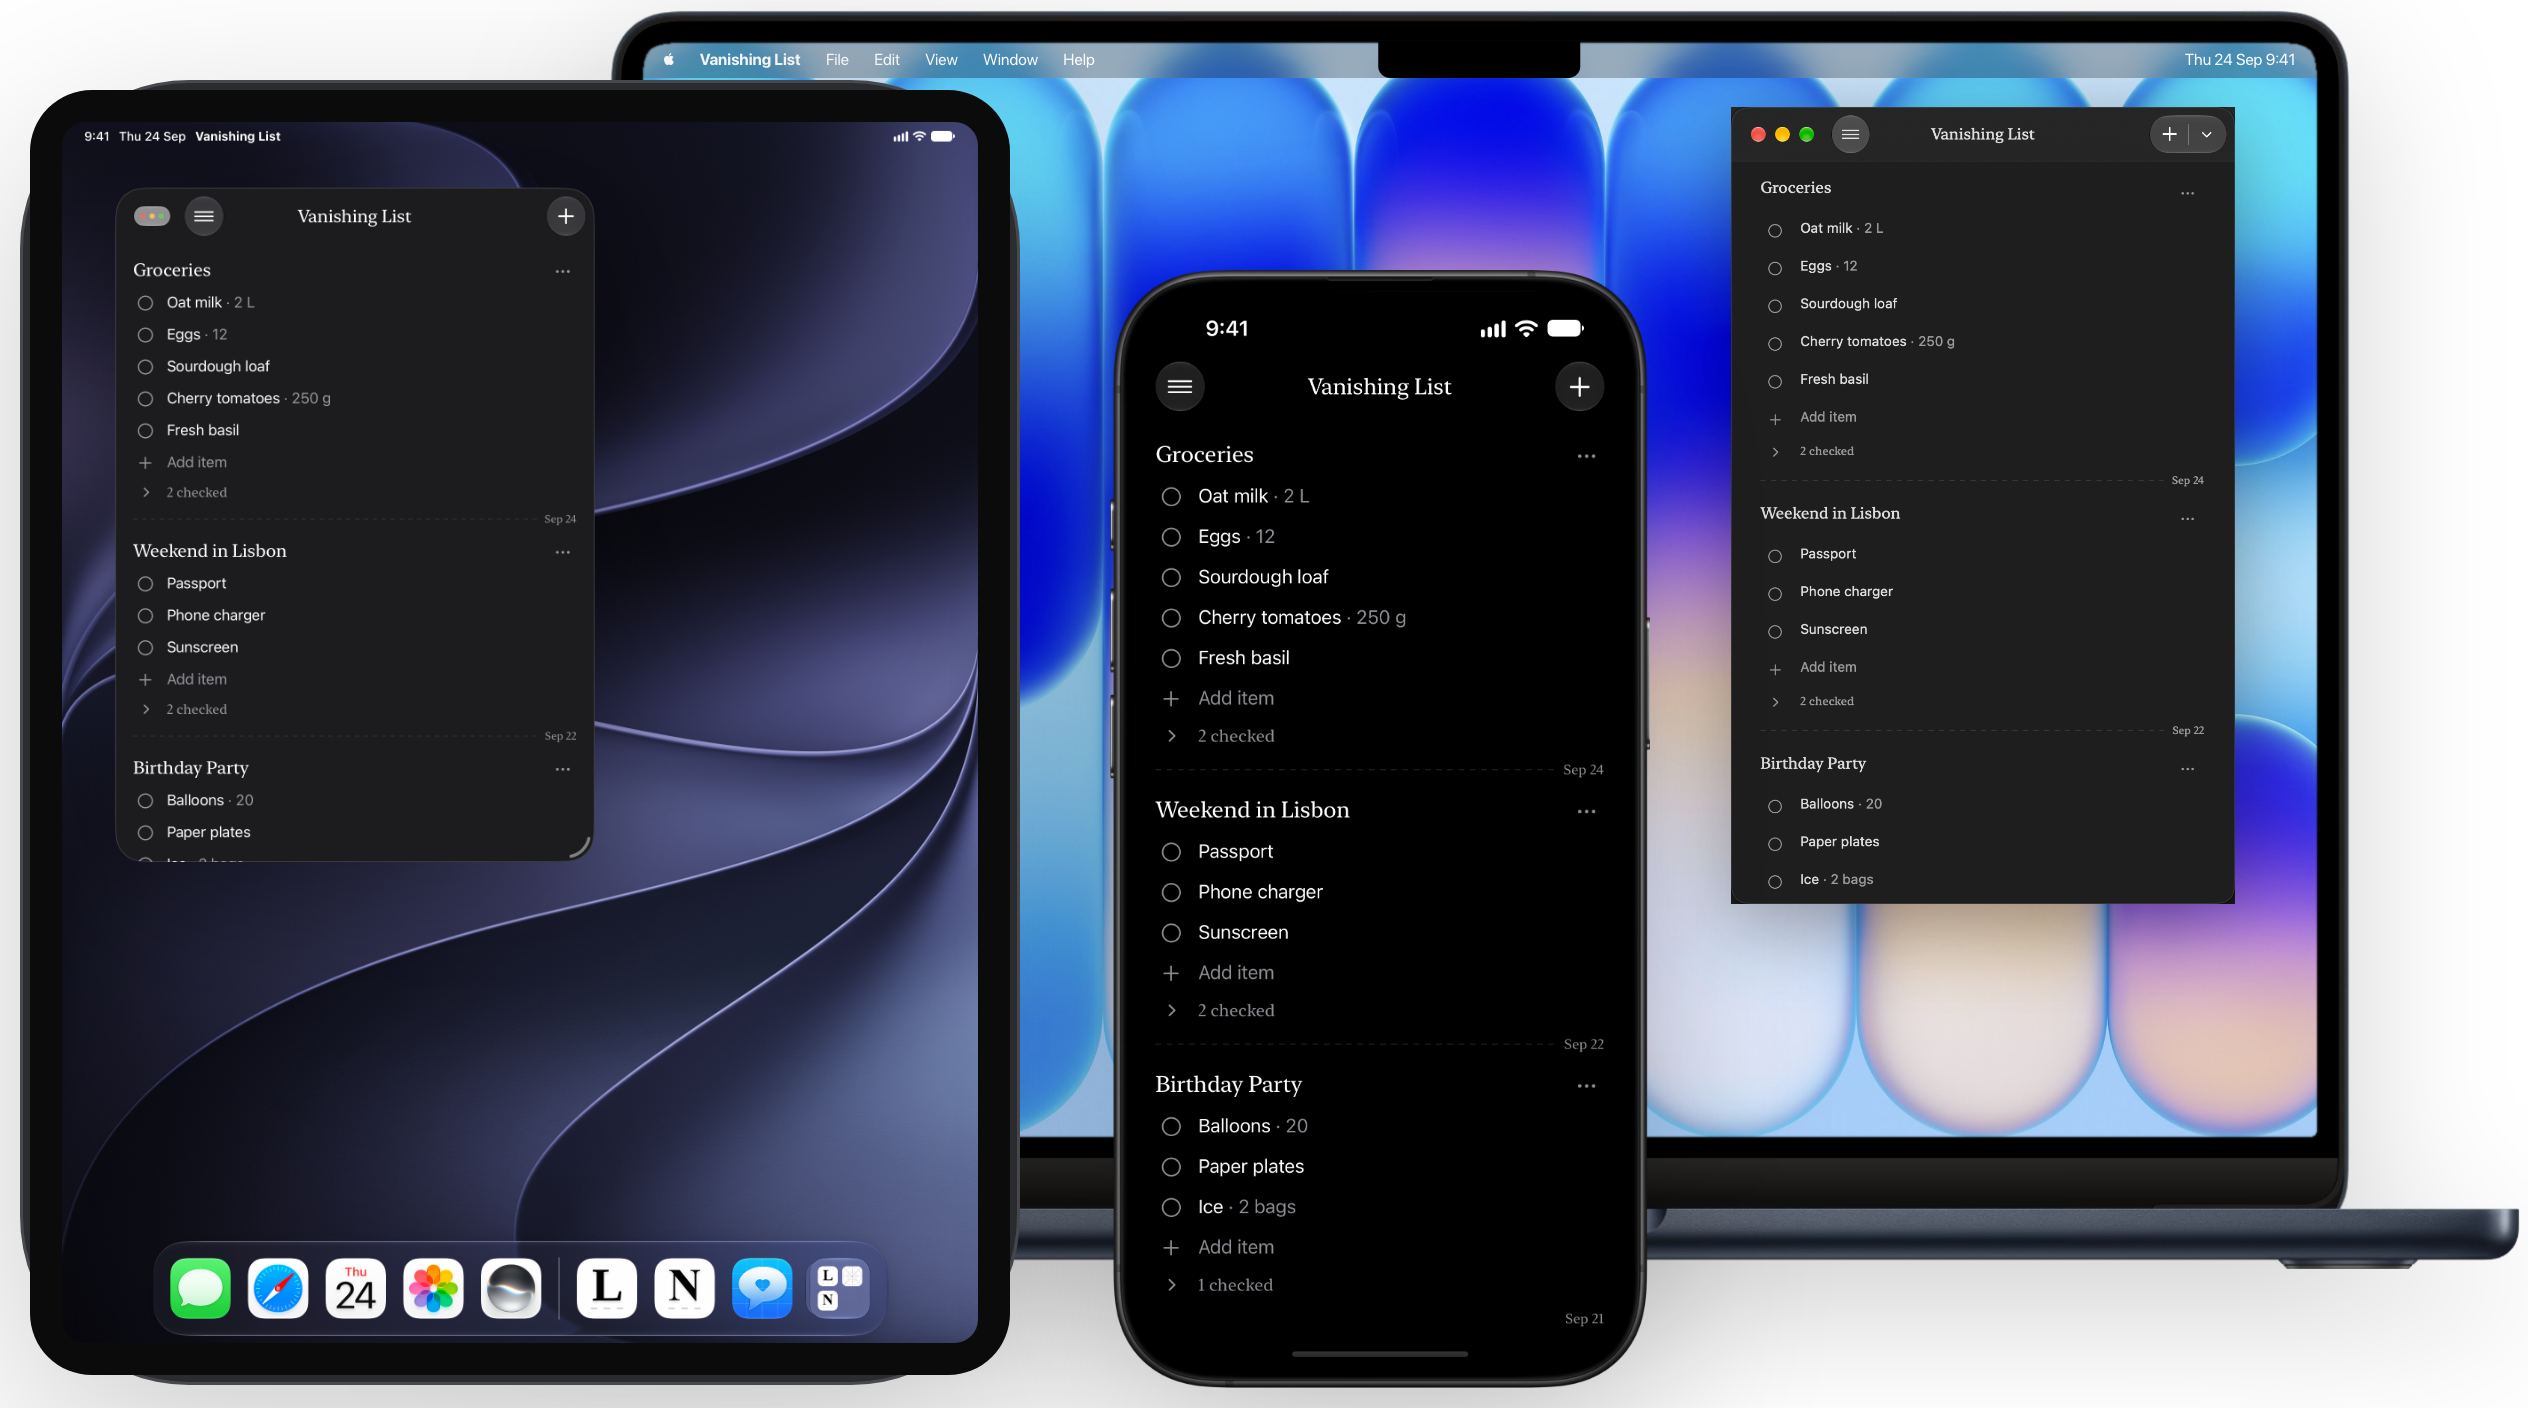
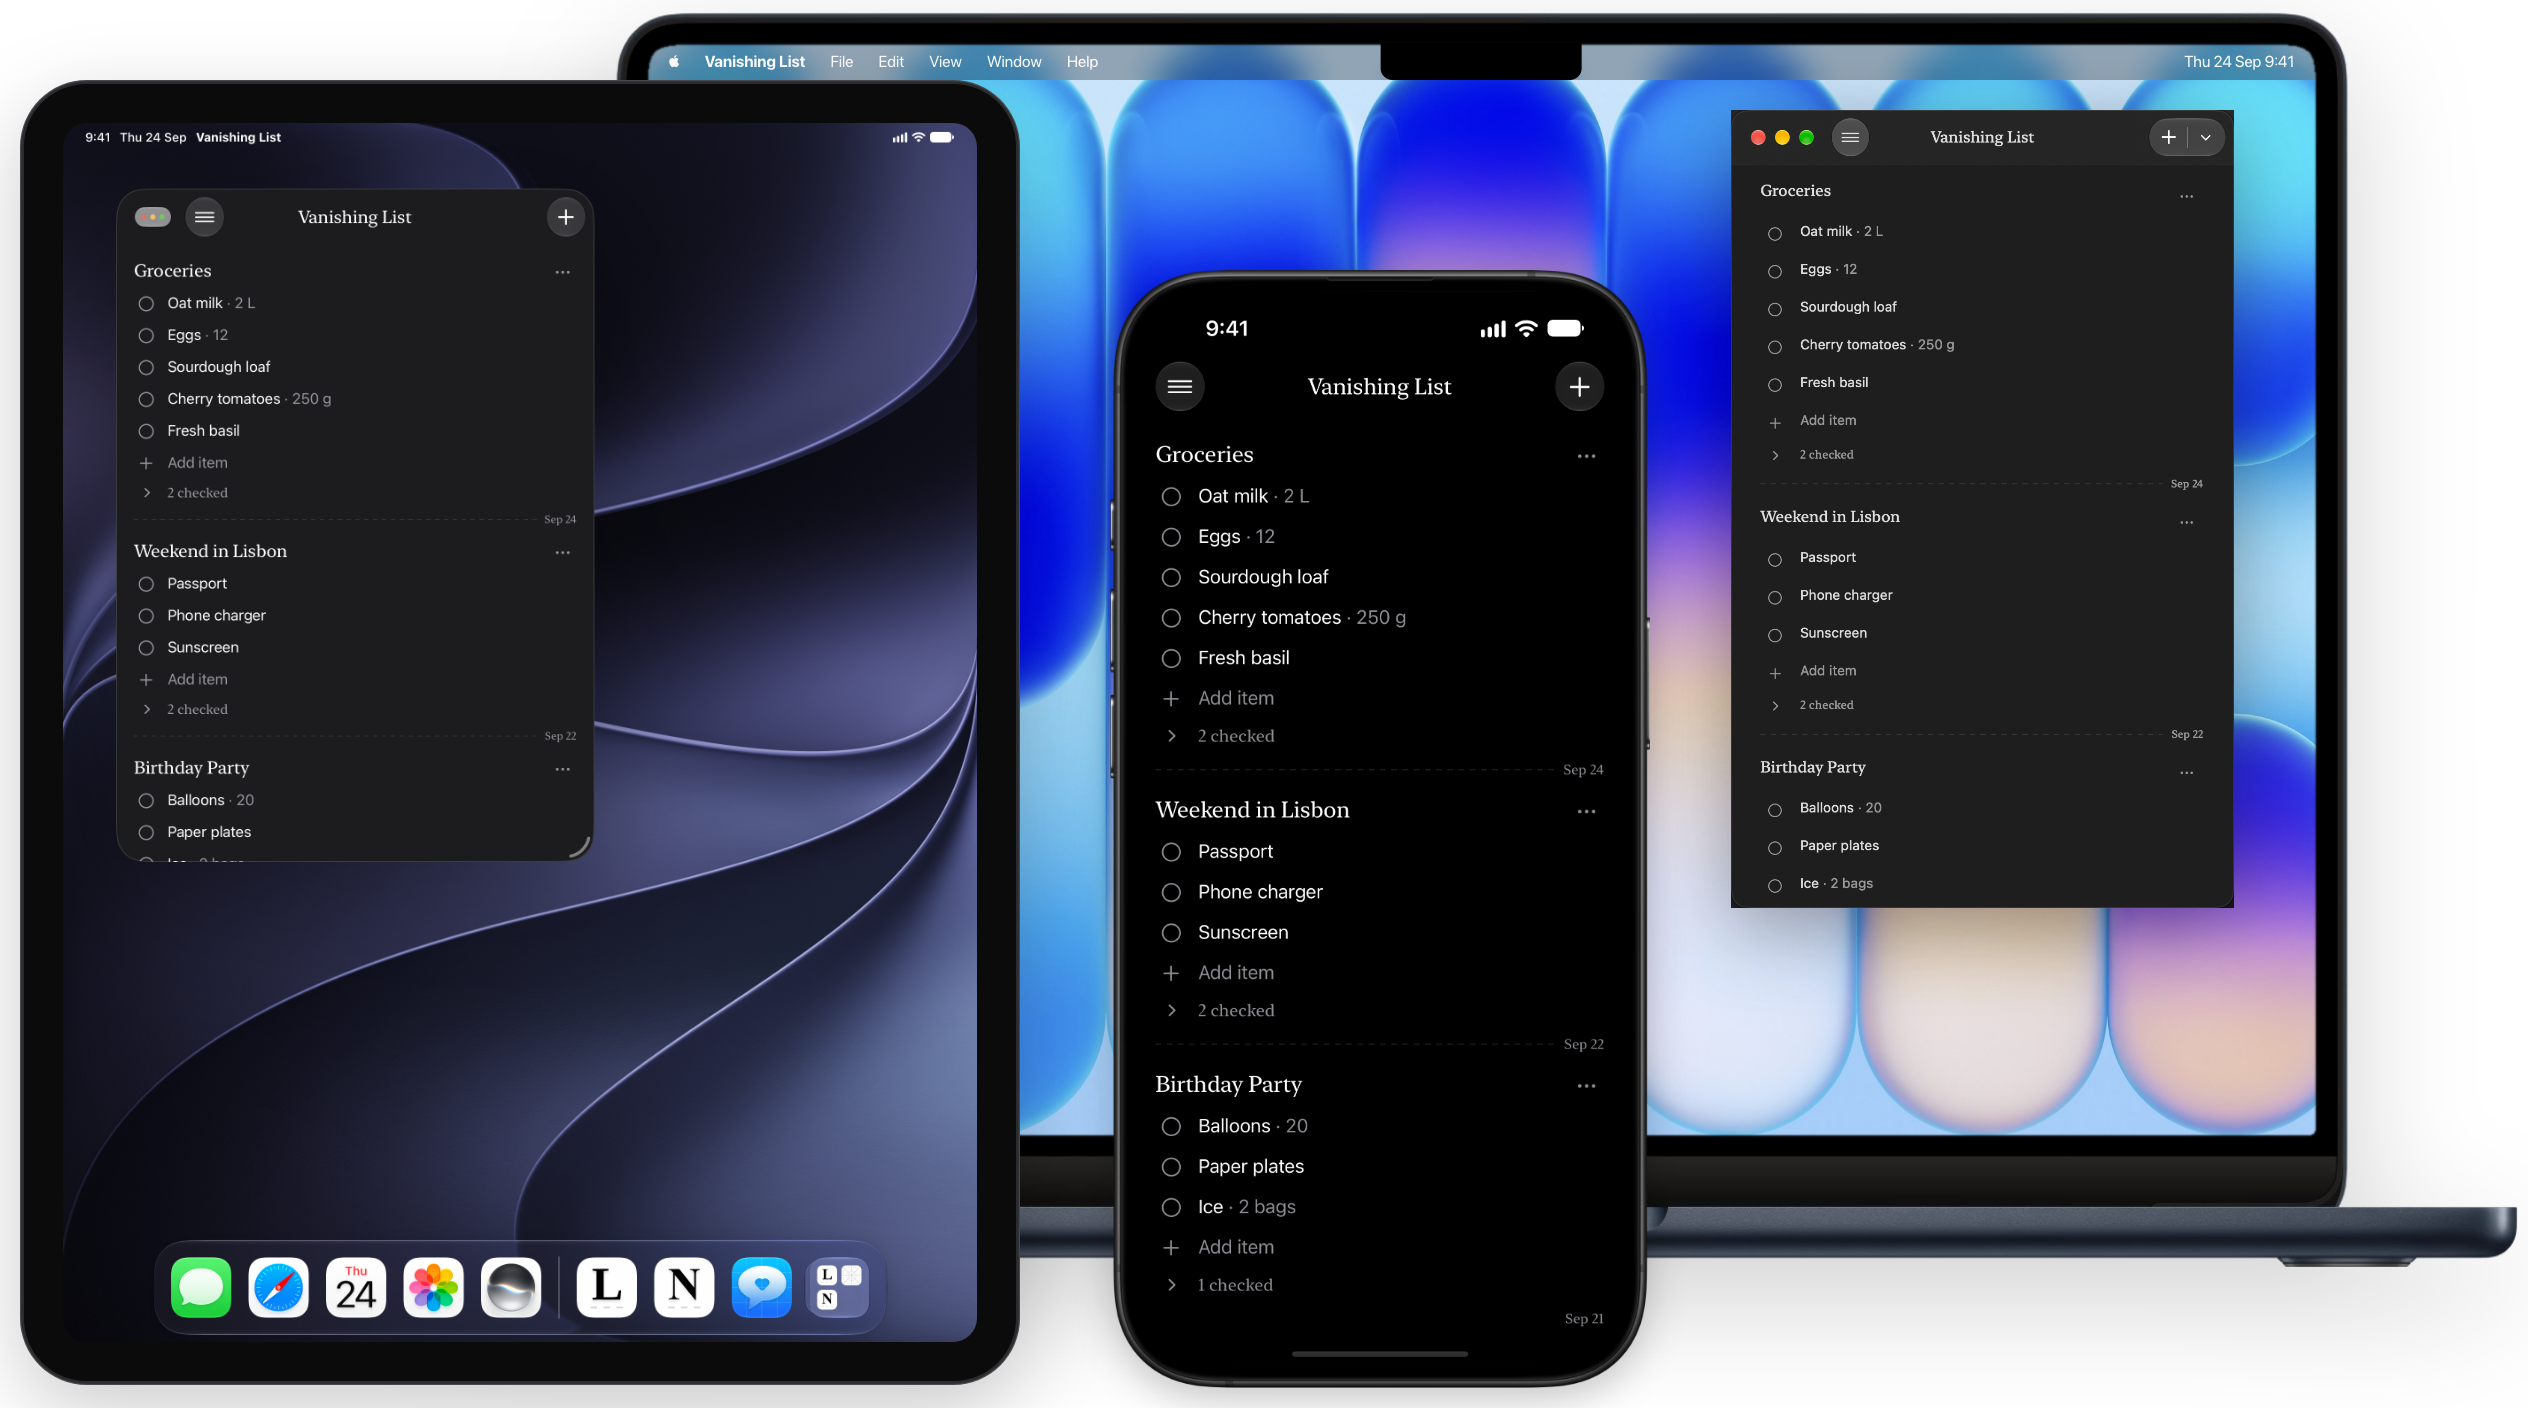
Vanishing List: re-render the ecosystem image
The iPhone's screen bulged out beside its side buttons, and the iPad's
glass corner poked past its rim. Rendered again from the fixed templates
in the app repo (Scripts/web-images.sh).

Claude-Session: https://claude.ai/code/session_01RpxudCBGvqLK2RtX3iyhvY

diff --git a/VanishingList/README.md b/VanishingList/README.md
@@ -6,7 +6,8 @@ The landing page for Vanishing List, a checklist app for iPhone, iPad and Mac wh
 
 The images are rendered from the app repo (`Vanishing-List/MarketingAssets`) with headless Chrome:
 
-- `Hero*.png`, `ecosystem*.png`: the raw app captures from `MarketingAssets/Screenshots/<platform>/<light|dark>/01-lists.png` inside the device frames from `MarketingAssets/AppStore/assets` and `templates/shared.css`.
+- `Hero*.png`: the raw app captures from `MarketingAssets/Screenshots/iphone/<light|dark>/01-lists.png` inside the iPhone frame from `MarketingAssets/AppStore/assets` (1:1, cropped and faded).
+- `ecosystem*.png`: rendered by `Scripts/web-images.sh` in the app repo from `MarketingAssets/AppStore/templates/web/ecosystem.html`.
 - `widget-*.png`: HTML mockups of the small and medium widgets (`VanishingListWidget/WidgetViews.swift`).
 - `iconVL.png`, `favicon/`: exported from `VanishingList.icon` with Icon Composer's `ictool`.
 - `og-image.png`: 1200×630, same layout as the Vanishing Notes one.
